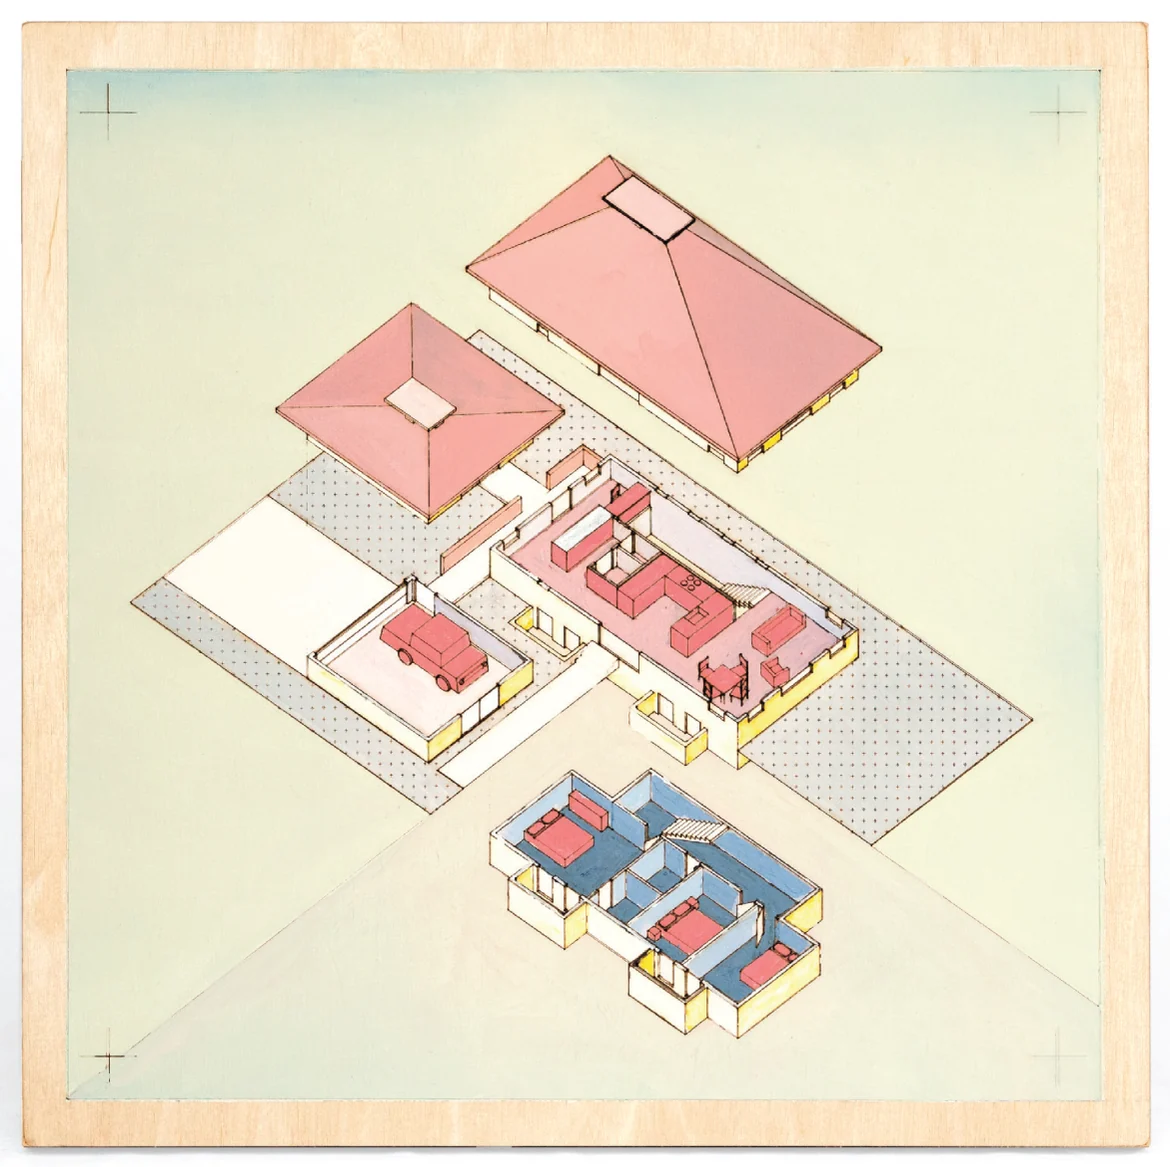
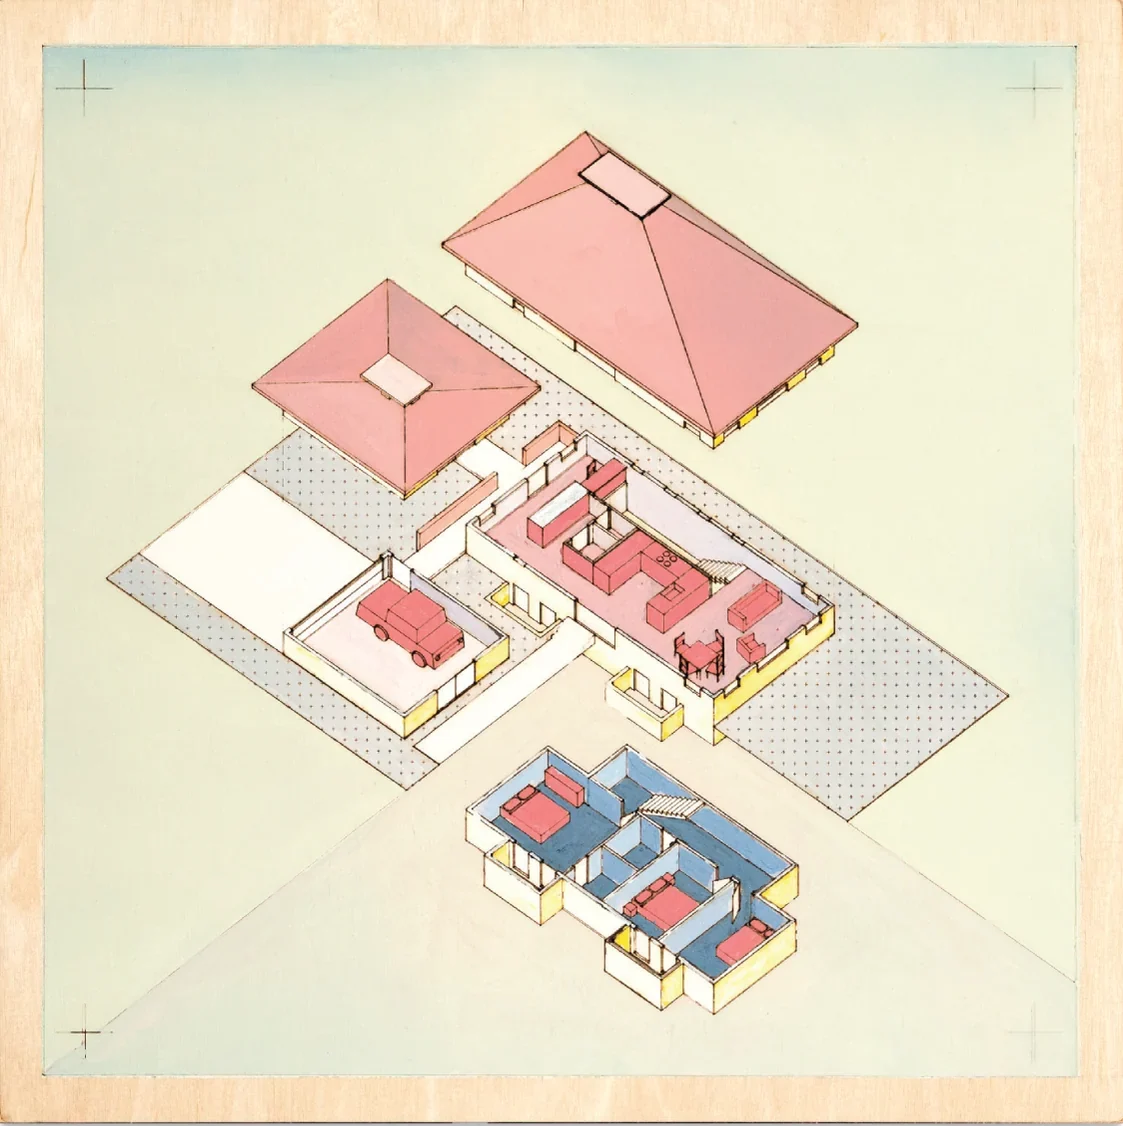
Add Shared House to the outage chart, paint the party rooms, trim the paintings
The outage chart gains Shared House, traced from Figure 148 with its two
red lines told apart by weight. The house switch reads Ground, Shared,
Nest, Huddle, so four fit on a phone.

The heat-wave-party plan's two gathering rooms are washed in pale blue,
cut from the painted ground of the hamlet painting. The dark theme's
invert is followed by a 180 degree hue turn, which leaves grey ink as it
was and keeps the wash blue.

The six paintings and their heated twins are cropped to the wooden
board, with no white paper around them.

Changed region(s): [[0.0935, 0.0933, 0.9038, 0.9014], [0.0, 0.0, 1.0, 1.0]]

diff --git a/assets/style.css b/assets/style.css
@@ -450,8 +450,10 @@ ul.rows li, ol.rows li { margin-bottom: .7em; }
 .figure video { background: #000; }
 
 /* A drawing in ink on a clear ground (build.py's is_ink): black on the
-   light page, turned white on the dark one. */
-[data-theme="dark"] .figure img.ink { filter: invert(1); }
+   light page, turned white on the dark one. The hue turn puts any colour
+   back after the invert (grey is unchanged), so a pale blue wash comes out
+   a deep blue rather than orange. */
+[data-theme="dark"] .figure img.ink { filter: invert(1) hue-rotate(180deg); }
 
 /* The date under a project's title, where the old site had it, and the
    credit under that: the school, the studio, and anyone it was made with. */

diff --git a/CLAUDE.md b/CLAUDE.md
@@ -36,9 +36,9 @@ Deployment is automatic: pushing to `main` runs `.github/workflows/deploy.yml`, 
 - An image line `![alt](file)` becomes a `<figure class="figure">`, the image linked to its own file. Image lines with no blank line between them share one `figure row`, side by side, each given a share of the width equal to its aspect ratio (`--ratio`) so they meet at one height; they stack below 34rem. `image_size()` reads the width and height from the file header (PNG, GIF, WebP, JPEG, MP4) into the tag, so nothing moves as images load. Figures sit in the 38rem text column at its full width (they used to step out to 60rem; Jon wanted them in the column), and link to the file for a full-size look. A single image narrower than the column is not stretched past its own width. Consecutive image lines still make a side-by-side row, but at column width a pair gets too small to read, so the project pages don't use them.
 - The same syntax with an `.mp4` or `.webm` gives a `<video>` with controls, played on request; the alt text becomes its `aria-label`.
 - The same syntax with a `.json` gives a chart (`render_chart()`): the file is inlined into the figure as `<script type="application/json">`, the alt text is its visible title, and `assets/chart.js` draws it in the page's ink with `.switch` buttons for its views and a readout line under it. Two types, both described at the top of `chart.js`: horizontal bars (the default; hollow for the reference, solid for what is tested; hover, focus or a tap on a bar fills the readout), and `"type": "lines"`, an SVG line chart that draws on from the left when it first scrolls into view and on every switch, with a crosshair readout under the pointer or the arrow keys. `chart.js` loads before `app.js` so `fitLabels()` sizes its switch buttons too. A chart must stand alone, with blank lines round it.
-- An image with an alpha channel (PNG, or a WebP that isn't animated; `is_ink()`) is taken as a drawing in black ink on a clear ground and gets `class="ink"`, which the dark theme inverts to white ink. The thesis page's plans and section are made this way: greyscale, darkness turned into opacity, RGB zero. Photographs and renderings are saved flat, without alpha, so they are left alone. Animated WebPs carry the alpha flag even when opaque, hence the exclusion (Accommodations' opener is one).
+- An image with an alpha channel (PNG, or a WebP that isn't animated; `is_ink()`) is taken as a drawing in black ink on a clear ground and gets `class="ink"`, which the dark theme inverts to white ink. The thesis page's plans and section are made this way: greyscale, darkness turned into opacity, RGB zero. The heat-wave-party plan (`11.webp`) also has its two gathering rooms washed in pale blue, cut from the painted ground of the hamlet painting (`09.webp`) and filled to the walls; the dark theme's invert is followed by a 180° hue turn, which leaves grey alone and keeps that wash blue. Photographs and renderings are saved flat, without alpha, so they are left alone. Animated WebPs carry the alpha flag even when opaque, hence the exclusion (Accommodations' opener is one).
 - Two files joined by `|` give one picture with a second under it (`render_reveal()`): `![Cool alt | Heated alt](03.webp|03-heat.webp)`. Hovering fades the second in; a tap, click or Enter holds it (`aria-pressed`, set by the last block of `app.js`). Made for the thermochromic paintings, so both files must be the same size.
-- **The thesis page** (`taming-torridity/`) uses all three. Its images were cropped from the thesis PDF, the heated paintings cropped to the same box as the cool ones so they register. `cities.json`, `hamlet.json` and `ground.json` are typed in from the thesis tables and labelled figures (`ground.json` from Figures 64, 65, 68 and 69: annual cooling for one house under six ground-modelling methods, the point of the page's "ground under the model" section, which Jon wants kept prominent). `methods.json` is the same comparison through the power cut, traced from Figures 70–73 (whose embedded titles are right and captions swapped: the plots titled Phoenix are Phoenix). FC factor, Ground Domain and Kiva overlap there and were traced as one bundle, labelled Ground Domain and Kiva; with R10 under the slab every line lies on that bundle, so hidden stretches take its value. `outage.json` was traced from the raster plots of Ground, Nest and Huddle House (Figures 138, 161, 167) by colour, one value an hour; the code-house line, the same in all three, agrees across the traces to 0.1 °C on average, and counting hours over 32 °C from the traces gives back the thesis's own counts within a few hours. The four-city outage plots (Figures 52–55) were tried and could not be traced: eight close colours overlap.
+- **The thesis page** (`taming-torridity/`) uses all three. Its images were cropped from the thesis PDF, the heated paintings cropped to the same box as the cool ones so they register. The paintings are cropped to the wooden board, 3 px inside its edge, with no white paper around them (Jon's call); keep any new painting the same way, and apply one crop to both photos of a pair. `cities.json`, `hamlet.json` and `ground.json` are typed in from the thesis tables and labelled figures (`ground.json` from Figures 64, 65, 68 and 69: annual cooling for one house under six ground-modelling methods, the point of the page's "ground under the model" section, which Jon wants kept prominent). `methods.json` is the same comparison through the power cut, traced from Figures 70–73 (whose embedded titles are right and captions swapped: the plots titled Phoenix are Phoenix). FC factor, Ground Domain and Kiva overlap there and were traced as one bundle, labelled Ground Domain and Kiva; with R10 under the slab every line lies on that bundle, so hidden stretches take its value. `outage.json` was traced from the raster plots of Ground, Shared, Nest and Huddle House (Figures 138, 148, 161, 167; Shared House's two red lines were told apart by weight, solid main house over dashed apartment) by colour, one value an hour; the code-house line, the same in all three, agrees across the traces to 0.1 °C on average, and counting hours over 32 °C from the traces gives back the thesis's own counts within a few hours. The four-city outage plots (Figures 52–55) were tried and could not be traced: eight close colours overlap.
 - ` :: ` inside a list item splits it into `.item-main` / `.item-meta` (right-aligned). When *every* item in a list uses `::`, the list gets `class="rows"` and loses its bullets; otherwise it is a normal list. This is what makes the work, CV and contact lists align. The slop list separates with ` - ` instead, so it stays a bulleted list.
 - Inline rendering escapes HTML first, stashes code spans and URLs, then applies `--` → en dash and `...` → ellipsis, so those substitutions never touch code or links. External links get `target="_blank" rel="noopener noreferrer"`.
 - Wrapped continuation lines (indented or not) are joined into the item above; a blank line ends a list only if the next non-blank line is not another item.
